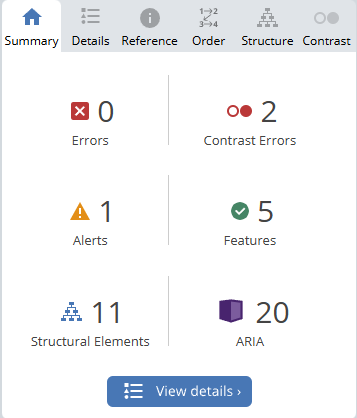
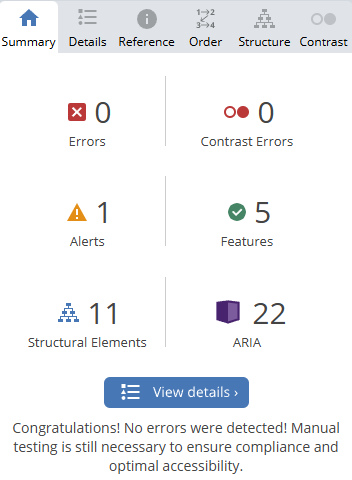
Added new index wave img to readme

diff --git a/README.md b/README.md
@@ -185,8 +185,6 @@ Testing was focused to ensure the following criteria were met:
 #### Index Wave Results
 ![index wave](./assets/images/wave-results/index-wave.png)
 
-* The index page had contrast errors on the 'previous' & 'next' buttons on the carousel. I changed the icons and its colour to be high contrast numerous times, but contrast errors still persisted.
-
 #### Walks Wave Result
 ![walks wave](./assets/images/wave-results/walks-wave.png)
 
